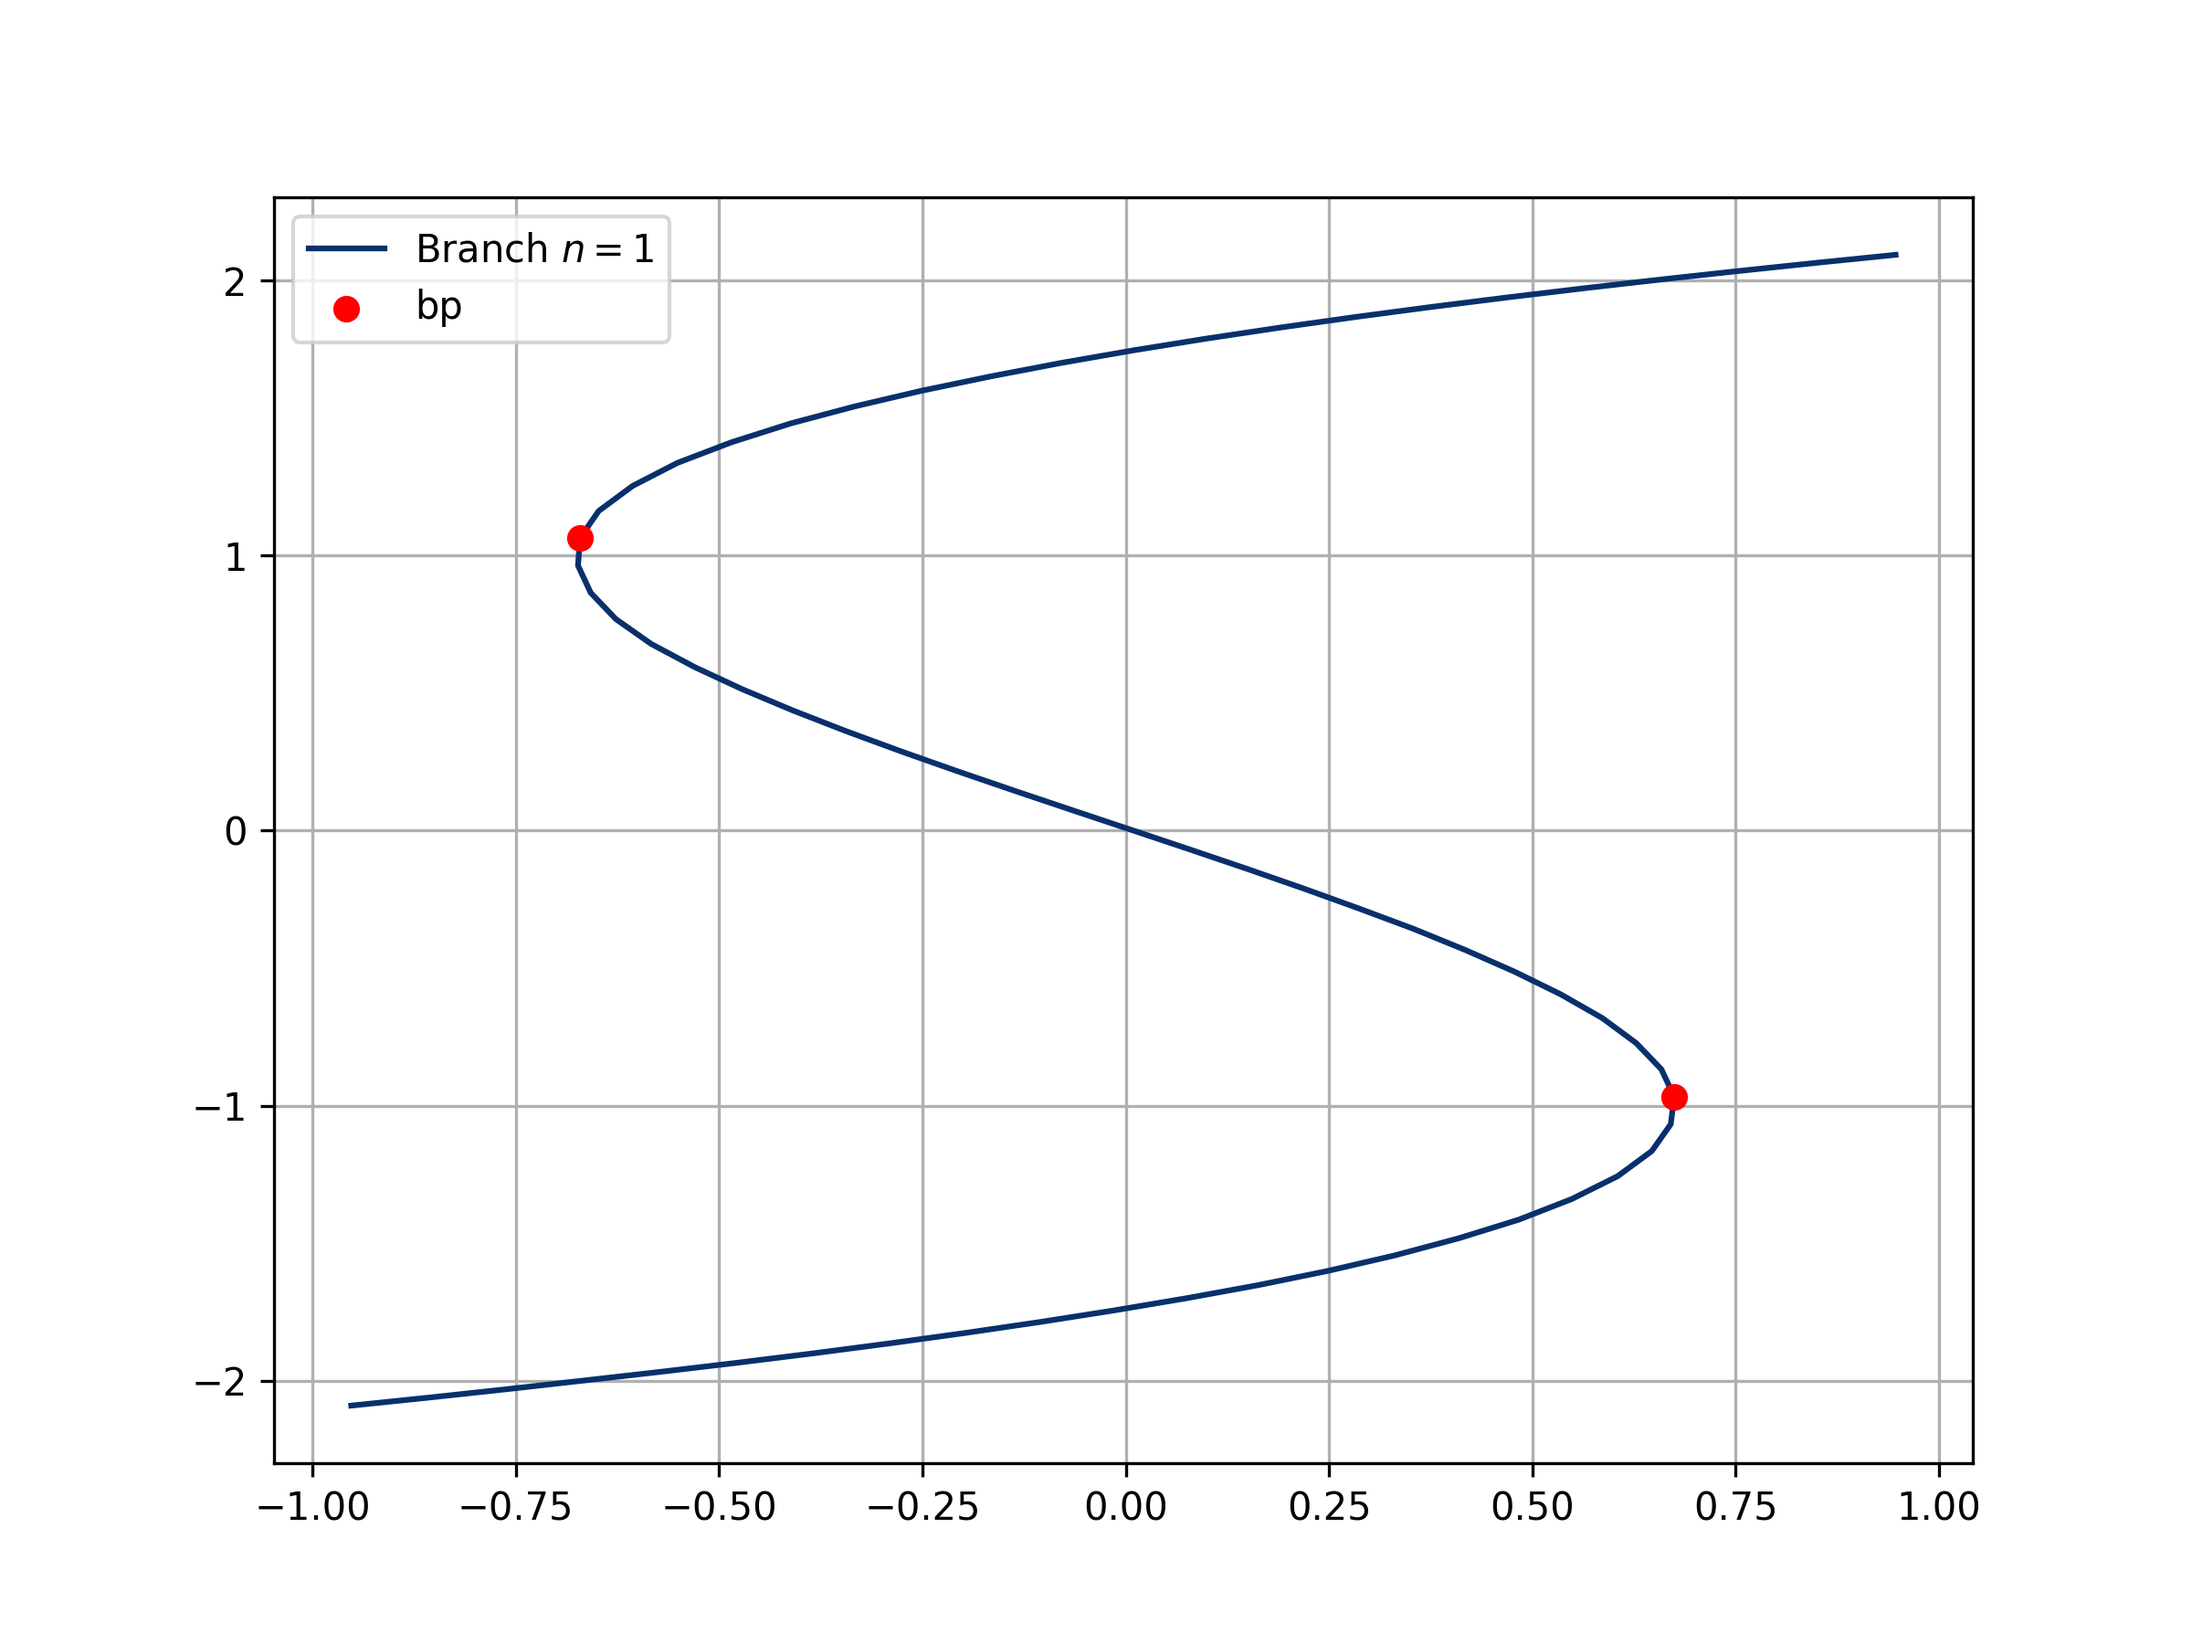
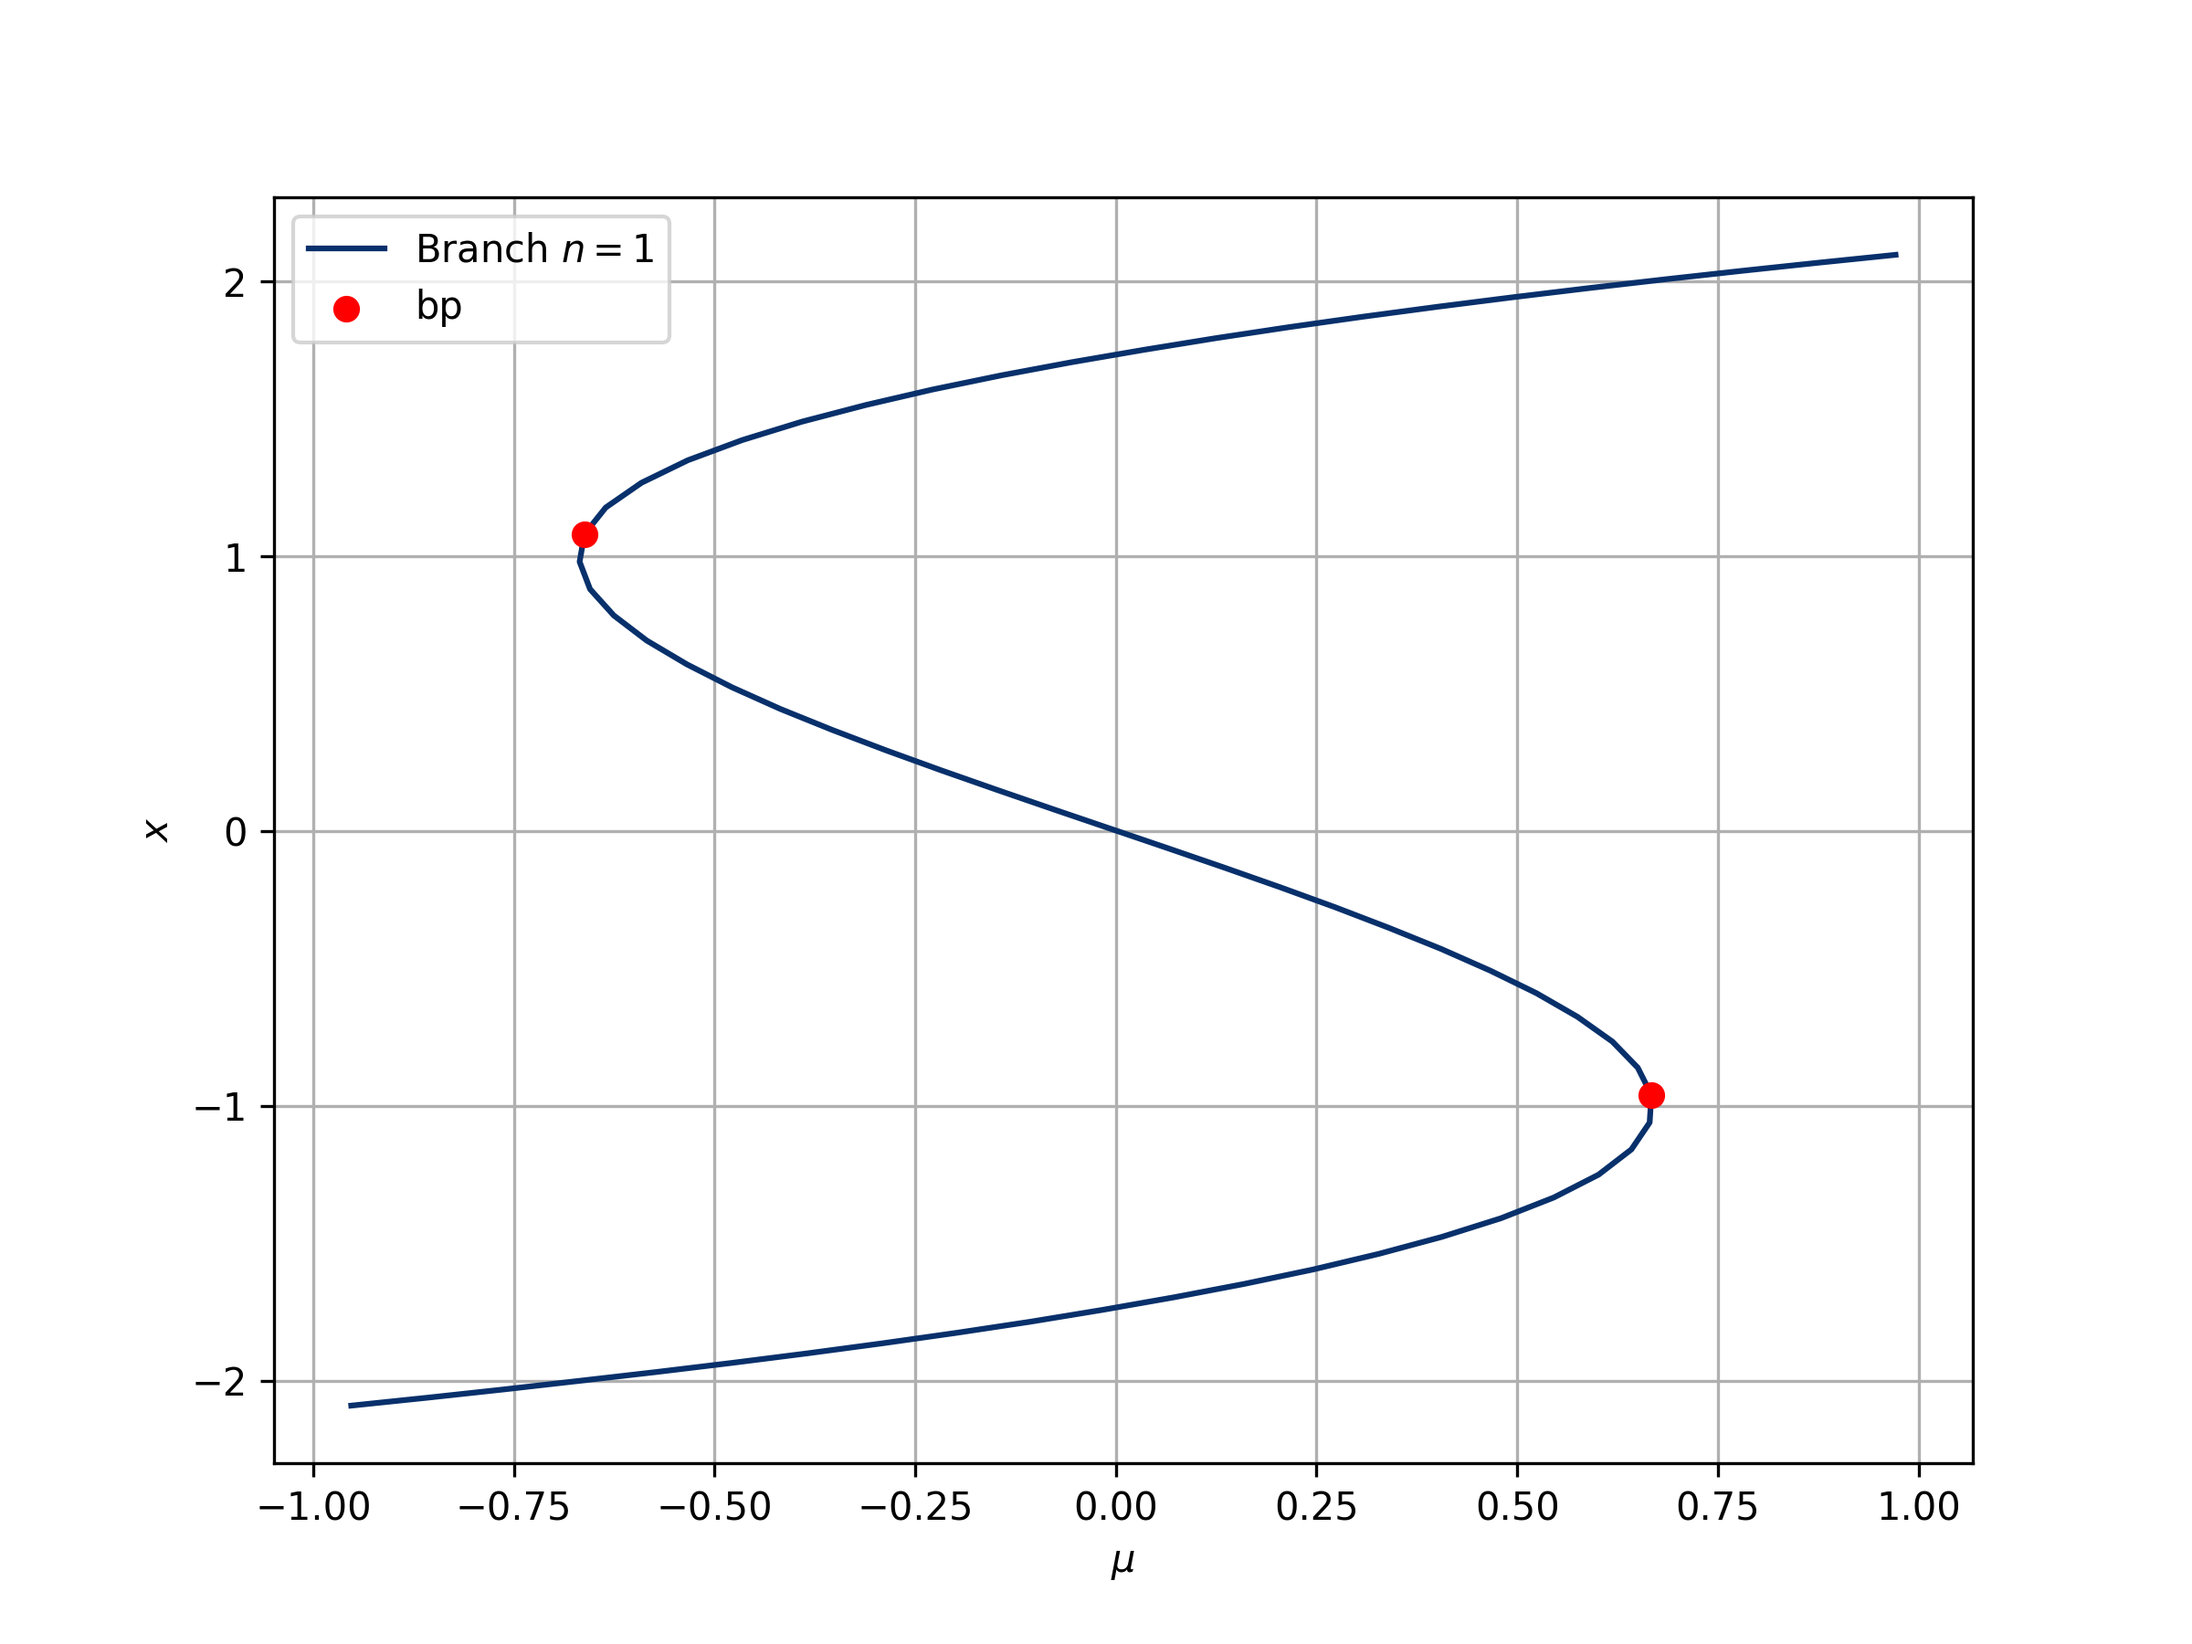
finish examples

diff --git a/bifurcationjax/continuation/Continuation.py b/bifurcationjax/continuation/Continuation.py
@@ -11,6 +11,8 @@ from bifurcationjax.utils import get_bifurcation_type, is_stable
 
 
 def continuation(prob: BifurcationProblem, prediction_params: PredictorParams, correction_params: CorrectorParams, par: ContinuationPar, max_depth: int = 2, k_start: int = 0):
+    diagram = Diagram()
+
     p0 = Point(step=0)
     J = jax.jit(jax.jacobian(prob.f))
     z = jnp.append(prob.x0, prob.p0)
@@ -35,12 +37,12 @@ def continuation(prob: BifurcationProblem, prediction_params: PredictorParams, c
     p1.n_unstable, p1.n_imag, p1.stable = is_stable(p1.evals)
 
     branch = Branch([p0, p1])
-    _continuation(branch, prob, prediction_params, correction_params, par, max_depth)
+    _continuation(diagram, branch, prob, prediction_params, correction_params, par, max_depth)
 
-    return Diagram
+    return diagram
 
 
-def _continuation_loop(branch: Branch, prob: BifurcationProblem, prediction_params: PredictorParams, correction_params: CorrectorParams, par: ContinuationPar, forward: bool):
+def _continuation_loop(diagram: Diagram, branch: Branch, prob: BifurcationProblem, prediction_params: PredictorParams, correction_params: CorrectorParams, par: ContinuationPar, forward: bool):
     J = jax.jit(jax.jacobian(prob.f))
 
     if forward:
@@ -73,12 +75,12 @@ def _continuation_loop(branch: Branch, prob: BifurcationProblem, prediction_para
         known, p1.tp = get_bifurcation_type(p0, p1)
 
         if p1.tp == 'bp':
-            is_bp = Diagram.get_bp(p1)
+            is_bp = diagram.get_bp(p1)
             if is_bp is None:
-                Diagram.bps[p1] = {branch.id}
+                diagram.bps[p1] = {branch.id}
                 bps.append([p0, p1])
             else:
-                Diagram.bps[is_bp].update({branch.id})
+                diagram.bps[is_bp].update({branch.id})
 
         branch.add(p1, forward=forward)
         p0 = p1
@@ -86,14 +88,14 @@ def _continuation_loop(branch: Branch, prob: BifurcationProblem, prediction_para
     return bps
 
 
-def _continuation(branch: Branch, prob: BifurcationProblem, prediction_params: PredictorParams, correction_params: CorrectorParams, par: ContinuationPar, max_depth: int, depth: int = 1):    
+def _continuation(diagram: Diagram, branch: Branch, prob: BifurcationProblem, prediction_params: PredictorParams, correction_params: CorrectorParams, par: ContinuationPar, max_depth: int, depth: int = 1):    
     J = jax.jit(jax.jacobian(prob.f))
 
     bps = []
-    bps += _continuation_loop(branch, prob, prediction_params, correction_params, par, forward=True)
-    bps += _continuation_loop(branch, prob, prediction_params, correction_params, par, forward=False)
+    bps += _continuation_loop(diagram, branch, prob, prediction_params, correction_params, par, forward=True)
+    bps += _continuation_loop(diagram, branch, prob, prediction_params, correction_params, par, forward=False)
 
-    Diagram.branches.append(branch)
+    diagram.branches.append(branch)
 
     if depth >= max_depth: return 
 
@@ -120,5 +122,5 @@ def _continuation(branch: Branch, prob: BifurcationProblem, prediction_params: P
             p1_c.n_unstable, p1_c.n_imag, p1_c.stable = is_stable(p1_c.evals)
 
             branch_new = Branch([p1_c, p0_b, p1_b])
-            _continuation(branch_new, prob, prediction_params, correction_params, par, max_depth, depth=depth+1)
+            _continuation(diagram, branch_new, prob, prediction_params, correction_params, par, max_depth, depth=depth+1)
     

diff --git a/tests/test_correctors.py b/tests/test_correctors.py
@@ -1,0 +1,37 @@
+"""
+Example 1 shown in https://bifurcationkit.github.io/BifurcationKitDocs.jl/stable/gettingstarted/
+"""
+
+import jax.numpy as jnp
+import jax
+
+from bifurcationjax.continuation.Corrector import CorrectorParams
+from bifurcationjax.continuation.Predictor import PredictorParams
+from bifurcationjax.continuation.Continuation import continuation
+from bifurcationjax.BifurcationProblem import BifurcationProblem
+from bifurcationjax.utils.Branch import ContinuationPar
+from bifurcationjax.utils.plot import plot_bifurcation_diagram
+
+
+"""
+Solving mu + x - x^3/3 = 0
+"""
+
+@jax.jit
+def F(x, mu):
+    return mu + x - jnp.pow(x, 3)/3
+
+def plot_fn(p):
+    return p.z[0]
+
+p0 = 0.
+x0 = jnp.array([-2.])
+
+prob = BifurcationProblem(F, x0, p0,)
+par = ContinuationPar(p_min=-1., p_max=1., dsmax=0.1, max_steps=500)
+correction_params = CorrectorParams(method='PALC', epsilon=1e-3)
+prediction_params = PredictorParams(method='tangent', k=0)
+branches = continuation(prob, prediction_params, correction_params, par, max_depth=1)
+
+
+plot_bifurcation_diagram(branches, plot_fn=plot_fn, path_save='images/example1.png')

diff --git a/tests/test_predictors.py b/tests/test_predictors.py
@@ -1,0 +1,37 @@
+"""
+Example 1 shown in https://bifurcationkit.github.io/BifurcationKitDocs.jl/stable/gettingstarted/
+"""
+
+import jax.numpy as jnp
+import jax
+
+from bifurcationjax.continuation.Corrector import CorrectorParams
+from bifurcationjax.continuation.Predictor import PredictorParams
+from bifurcationjax.continuation.Continuation import continuation
+from bifurcationjax.BifurcationProblem import BifurcationProblem
+from bifurcationjax.utils.Branch import ContinuationPar
+from bifurcationjax.utils.plot import plot_bifurcation_diagram
+
+
+"""
+Solving mu + x - x^3/3 = 0
+"""
+
+@jax.jit
+def F(x, mu):
+    return mu + x - jnp.pow(x, 3)/3
+
+def plot_fn(p):
+    return p.z[0]
+
+p0 = 0.
+x0 = jnp.array([-2.])
+
+prob = BifurcationProblem(F, x0, p0,)
+par = ContinuationPar(p_min=-1., p_max=1., dsmax=0.1, max_steps=500)
+correction_params = CorrectorParams(method='PALC', epsilon=1e-3)
+prediction_params = PredictorParams(method='tangent', k=0)
+branches = continuation(prob, prediction_params, correction_params, par, max_depth=1)
+
+
+plot_bifurcation_diagram(branches, plot_fn=plot_fn, path_save='images/example1.png')

diff --git a/bifurcationjax/utils/Branch.py b/bifurcationjax/utils/Branch.py
@@ -68,11 +68,13 @@ class Branch:
         
 
 class Diagram:
-    branches: List[Branch] = []
-    bps: Dict[Point, Set[int]] = dict()
+    def __init__(self, branches: List[Branch] = [], bps: Dict[Point, Set[int]] = dict()):
+        self.branches = branches
+        self.bps = bps
+        
 
-    def get_bp(p: Point) -> Optional[Point]:
-        for pb in Diagram.bps.keys():
+    def get_bp(self, p: Point) -> Optional[Point]:
+        for pb in self.bps.keys():
             if p.similar(pb):
                 return pb
         return None
@@ -80,12 +82,12 @@ class Diagram:
     def merge(self, branch2):
         self.branches += branch2.branches
 
-    def add_bp(p: Point, branches: List[Branch]):
-        result = Diagram.get_bp(p)
+    def add_bp(self, p: Point, branches: List[Branch]):
+        result = self.get_bp(p)
 
         branches_set = set(branch.id for branch in branches)
         if result is None:
-            Diagram.bp[p] = branches_set
+            self.bp[p] = branches_set
         else:
-            Diagram.bp[p].update(branches_set)
+            self.bp[p].update(branches_set)
 

diff --git a/bifurcationjax/utils/plot.py b/bifurcationjax/utils/plot.py
@@ -4,9 +4,19 @@ import matplotlib as mpl
 
 from bifurcationjax.utils.Branch import Diagram
 
-def plot_bifurcation_diagram(diagram: Diagram, axis: int = 0, plot_fn = lambda p: p.z[0], path_save: str | None = None, plot_dots: bool = False):
+def plot_bifurcation_diagram(
+        diagram: Diagram, 
+        axis: int = 0, 
+        plot_fn = lambda p: p.z[0], 
+        path_save: str | None = None, 
+        plot_dots: bool = False, 
+        ax: mpl.axes.Axes = None
+    ):
+    
     dict_color = {'bp':0, 'hopf':1, 'nd':2}
-    fig, ax = plt.subplots(figsize=(8,6))
+
+    if ax is None:
+        fig, ax = plt.subplots(figsize=(8,6))
 
     cmap = mpl.colormaps['Blues']
 
@@ -28,9 +38,8 @@ def plot_bifurcation_diagram(diagram: Diagram, axis: int = 0, plot_fn = lambda p
     ax.set_xlabel('$\mu$')
     ax.set_ylabel('$x$')
 
-    plt.legend(by_label.values(), by_label.keys())
-    plt.grid()
+    ax.legend(by_label.values(), by_label.keys())
+    ax.grid()
     
     if path_save:
         plt.savefig(path_save, dpi=300)
-    plt.show()
